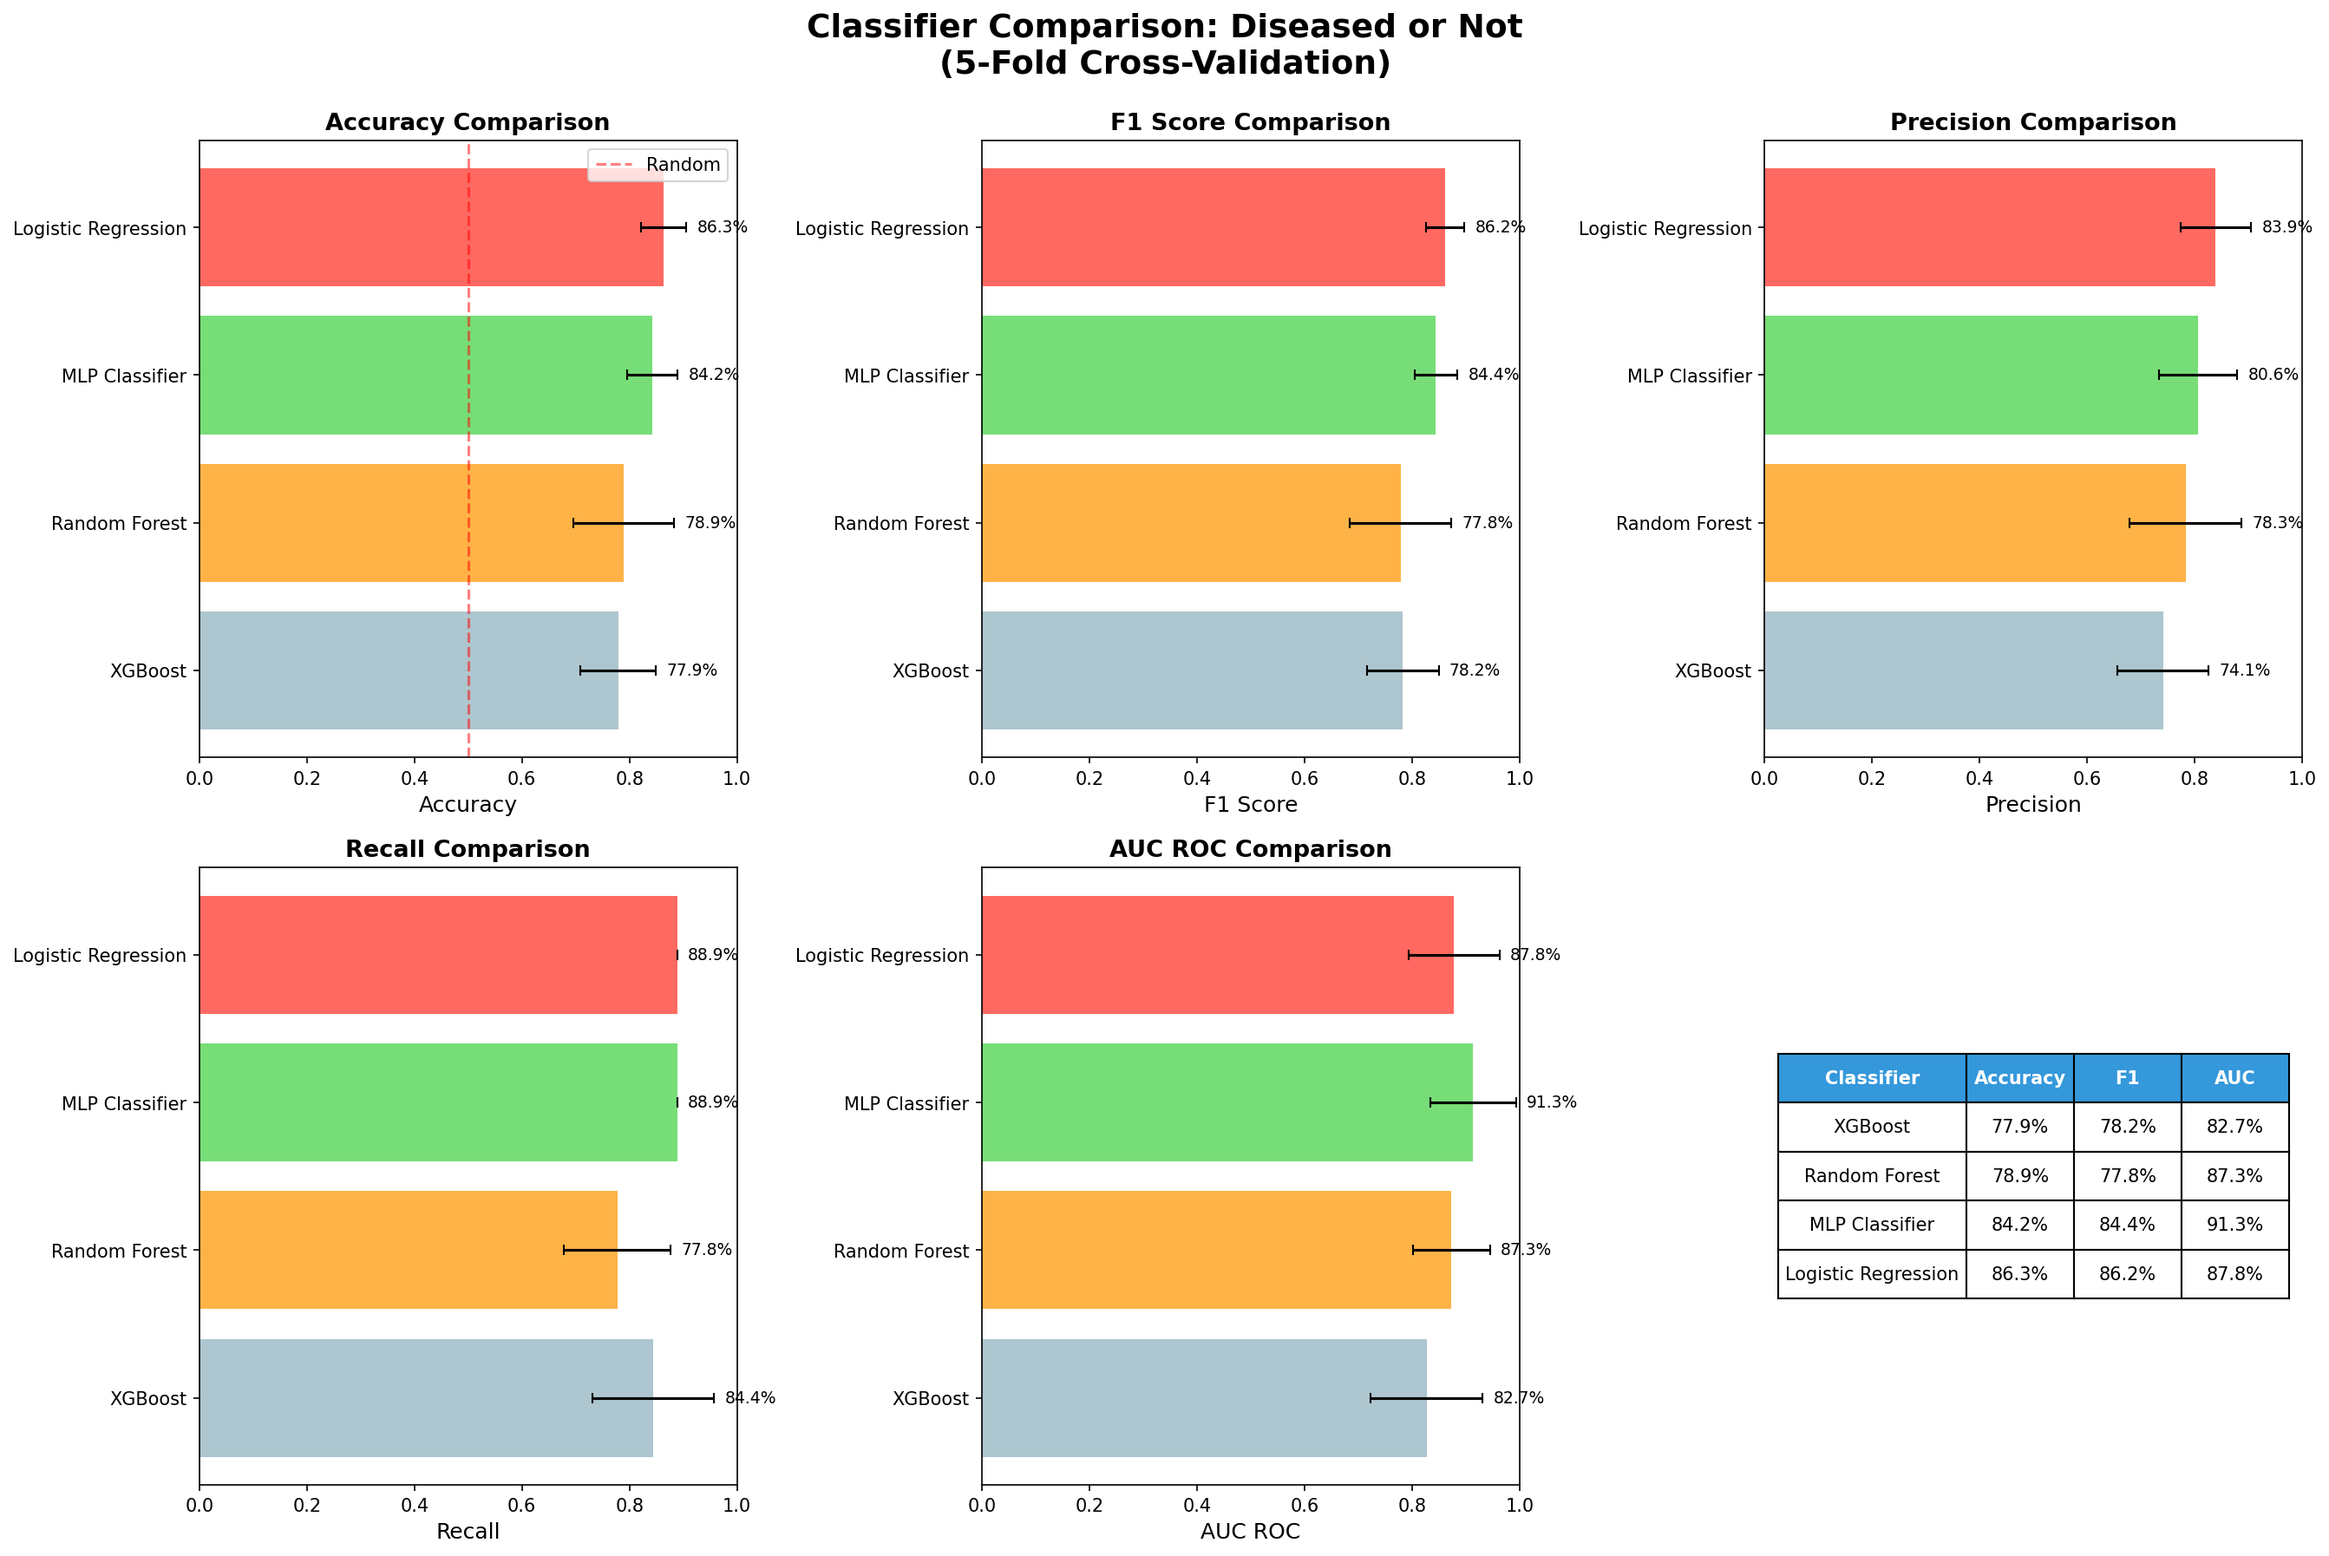
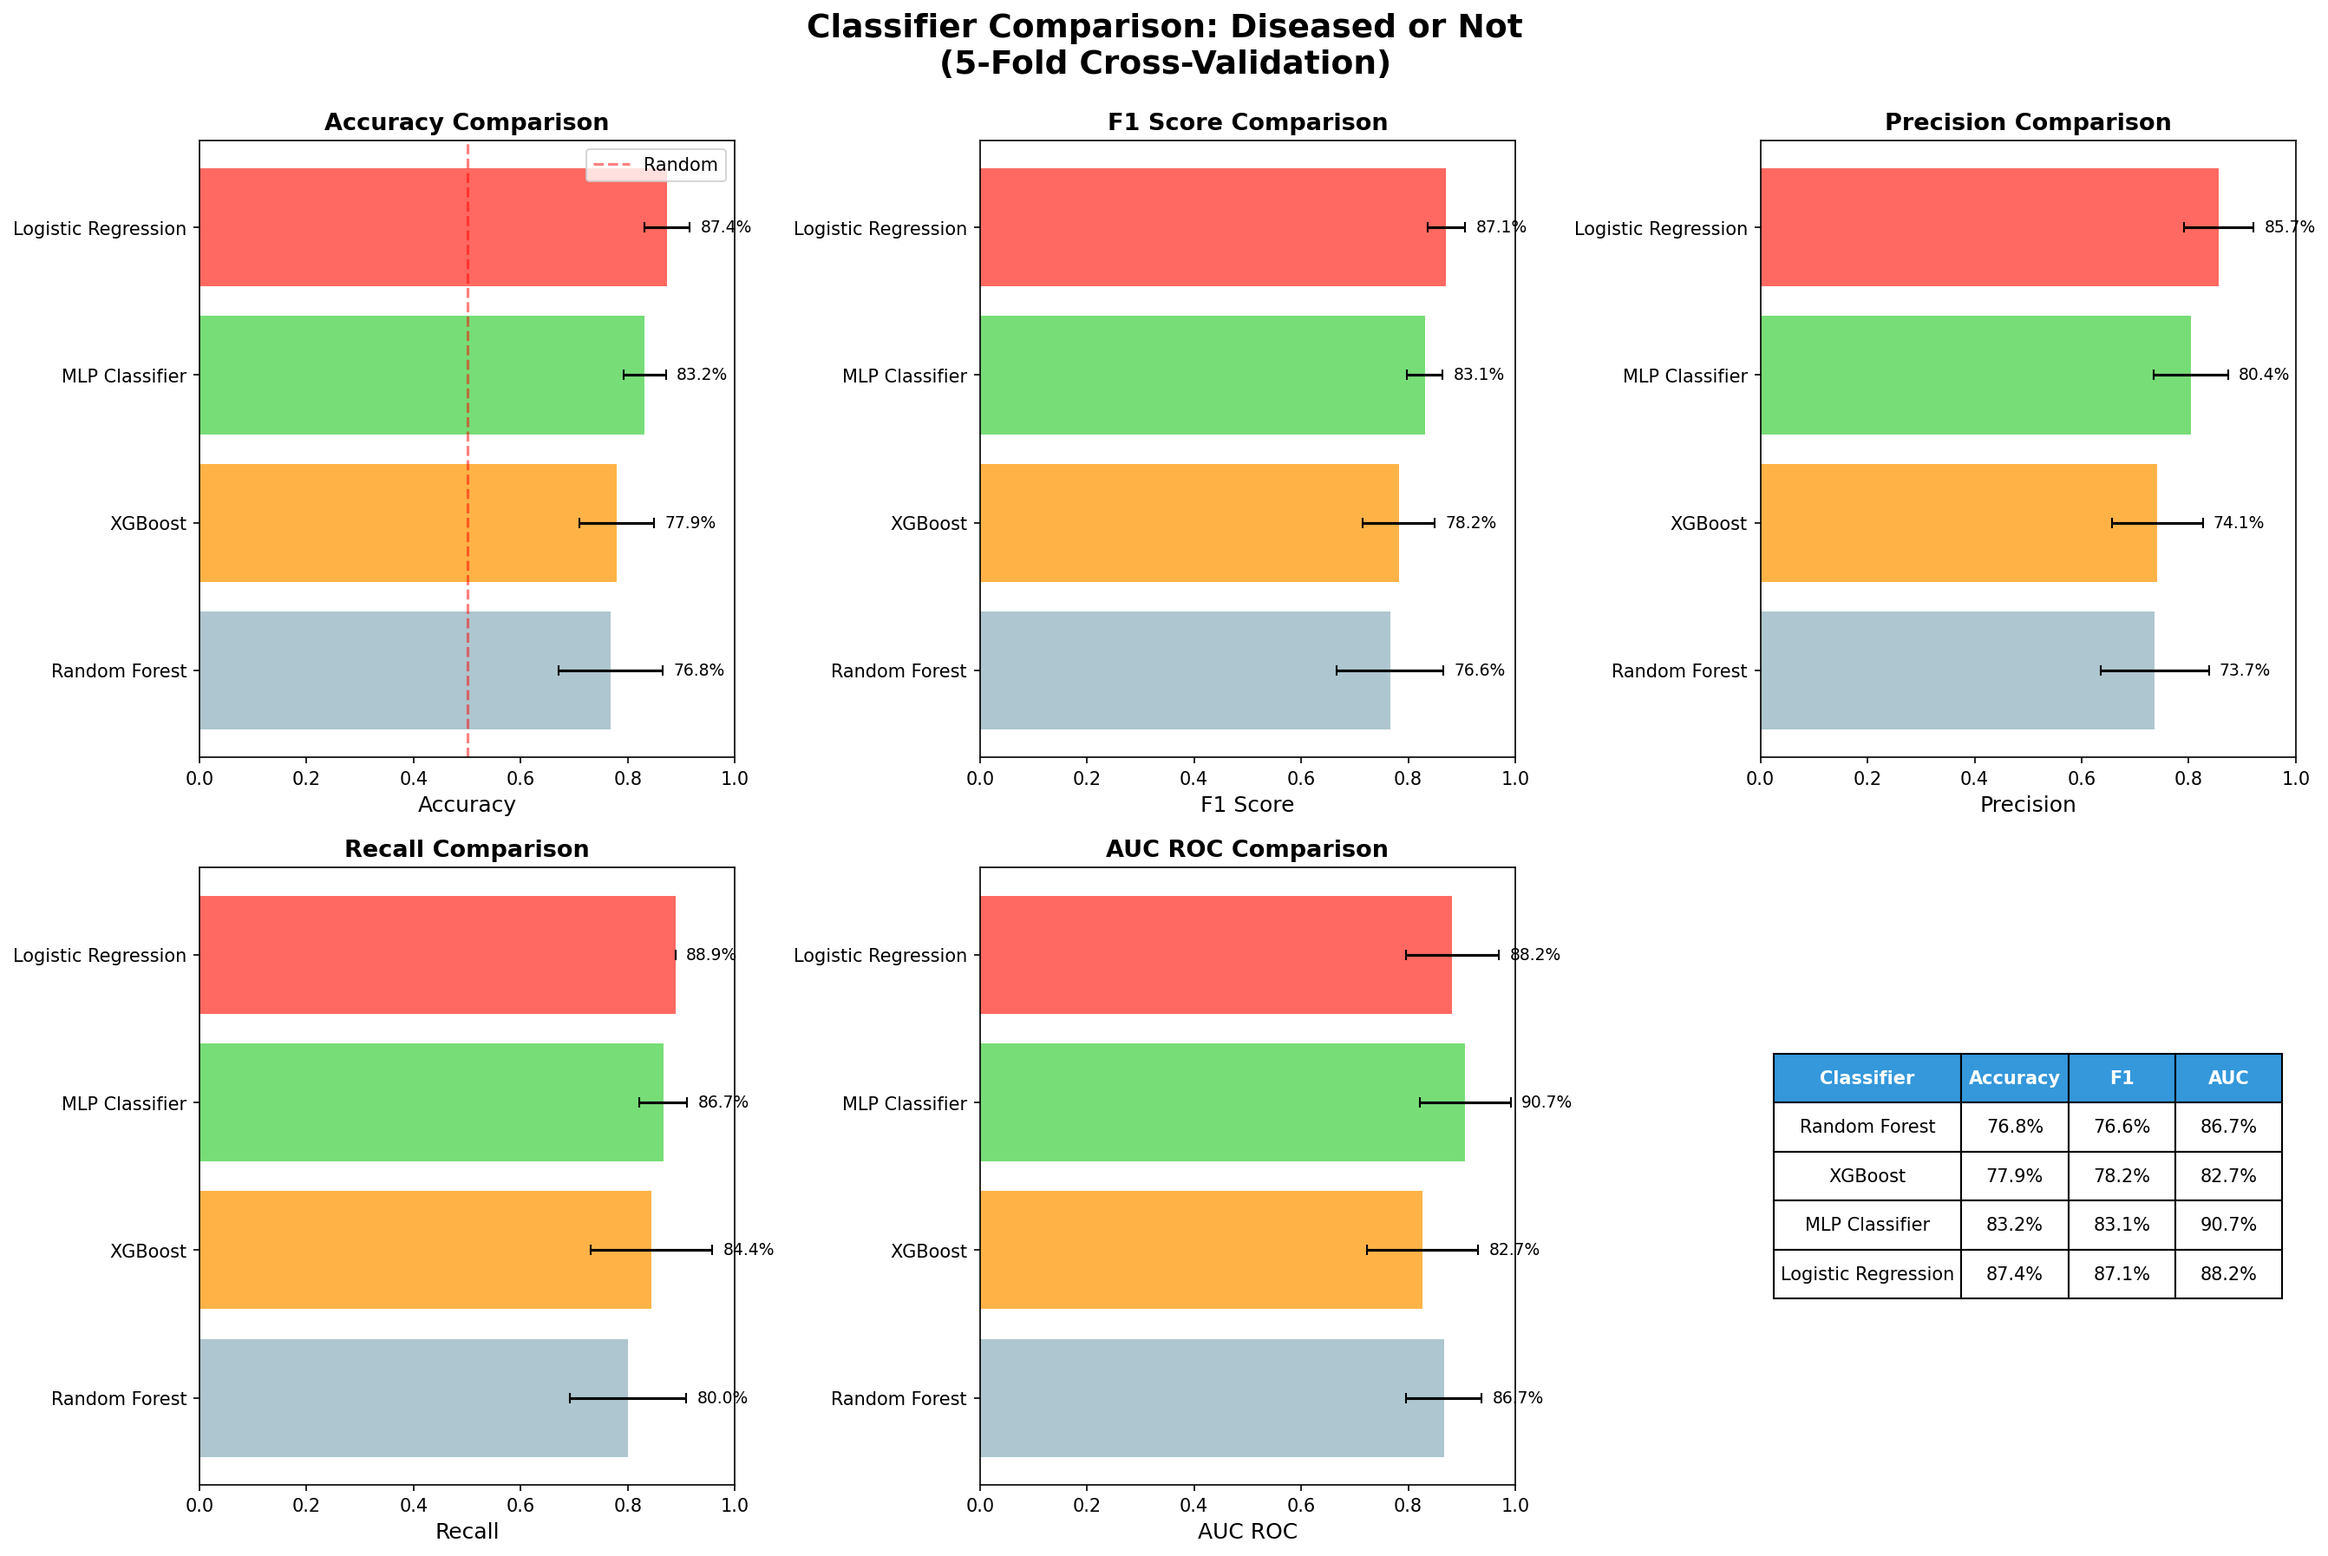
Final Fix: Added DMSO support to collagen extraction, achieving full 200 cell dataset

diff --git a/src/classification/comprehensive_classifier_comparison.py b/src/classification/comprehensive_classifier_comparison.py
@@ -89,7 +89,7 @@ def extract_collagen_status(filename):
     filename = str(filename).lower()
     if '+coll' in filename or '+col' in filename:
         return 1  # Collagen
-    elif '-coll' in filename or '-col' in filename or 'nocoll' in filename or 'no coll' in filename:
+    elif '-coll' in filename or '-col' in filename or 'nocoll' in filename or 'no coll' in filename or 'dmso' in filename:
         return 0  # No Collagen
     return None
 
